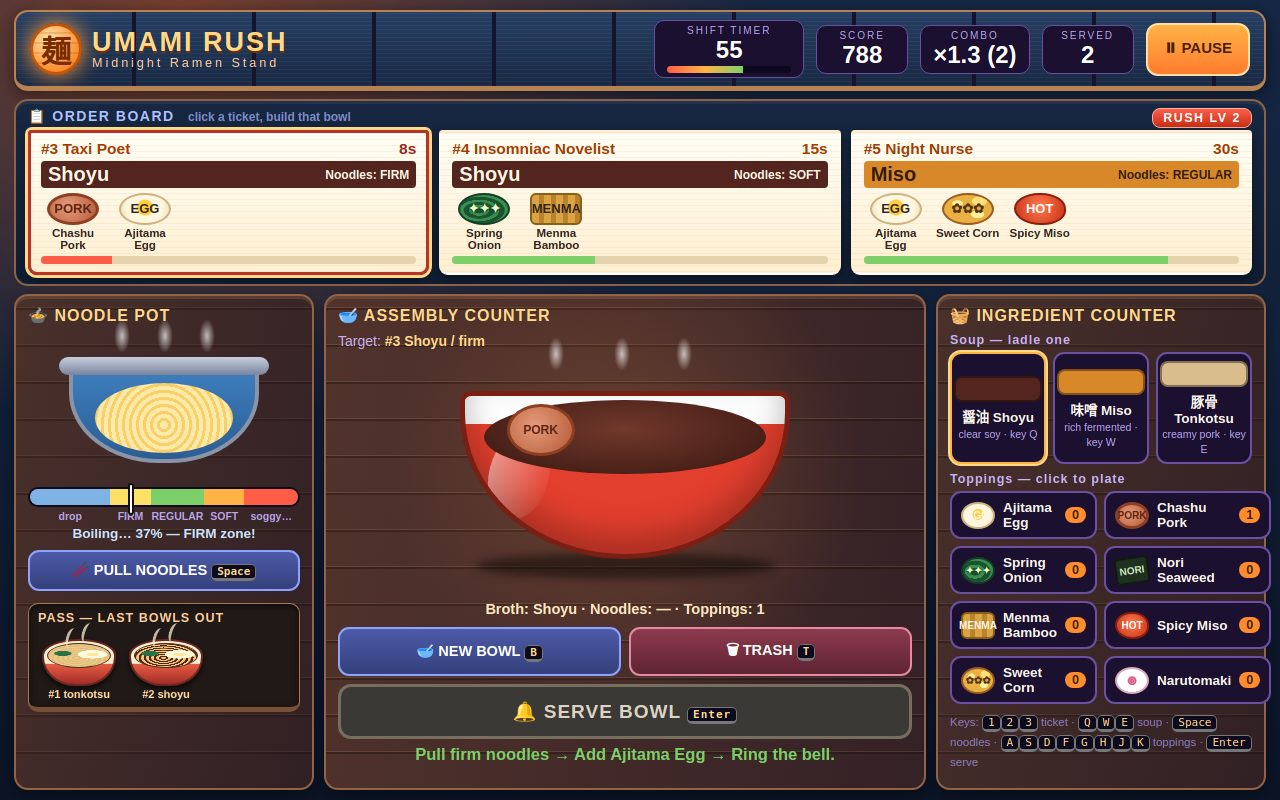
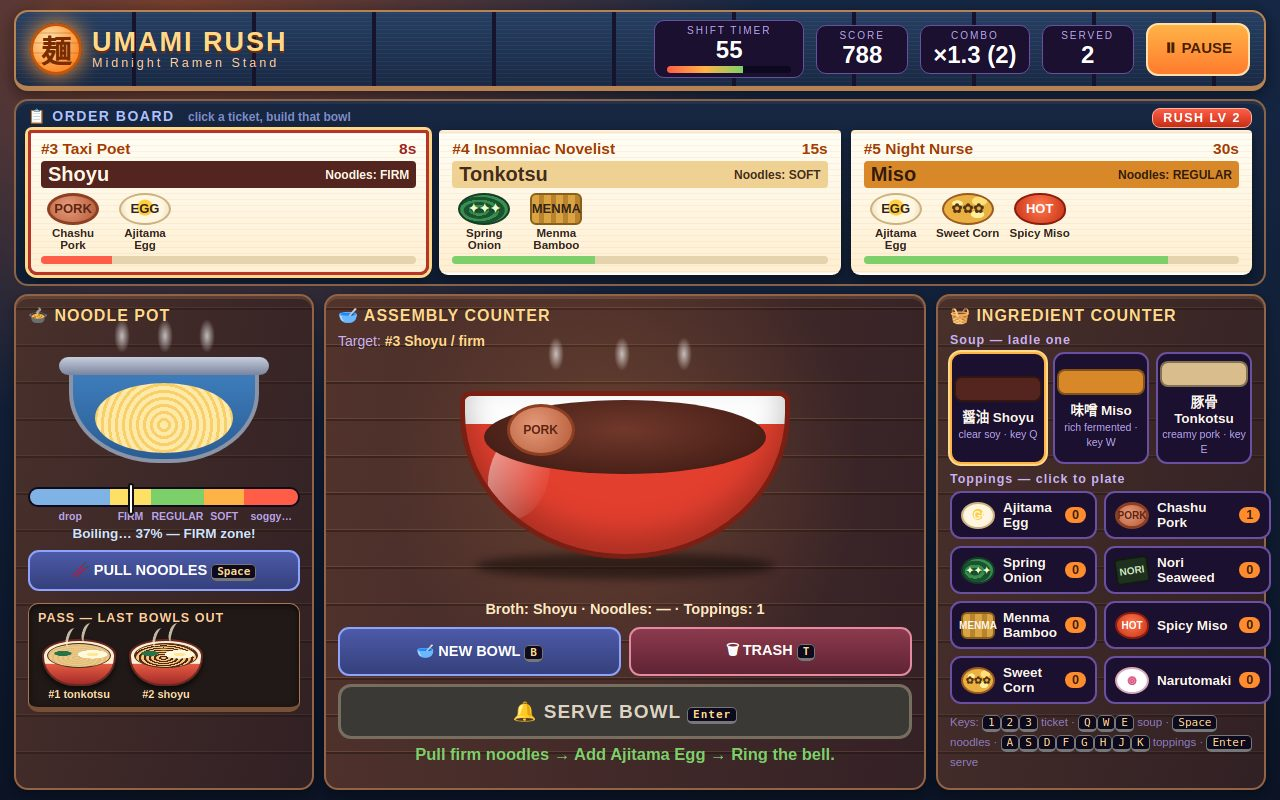
Muse cycle-2 turn: ticket #4 broth shoyu -> tonkotsu so the cover board and the serve-frame PASS shelf each show all three broths; every downstream number re-derives from the script (scores unchanged, consistency suite green)

Changed region(s): [[0.3438, 0.1875, 0.6562, 0.25]]

diff --git a/game/src/shots.js b/game/src/shots.js
@@ -13,7 +13,7 @@ const TICKETS = [
   { pinned: 0, customer: 'Night-bus Driver', broth: 'tonkotsu', doneness: 'firm', toppings: ['chashu', 'negi'], served: 3 },
   { pinned: 0, customer: 'Jazz Pianist', broth: 'shoyu', doneness: 'regular', toppings: ['menma', 'nori'], served: 11 },
   { pinned: 3, customer: 'Taxi Poet', broth: 'shoyu', doneness: 'firm', toppings: ['chashu', 'ajitama'], served: 37, missed: 'ajitama' },
-  { pinned: 11, customer: 'Insomniac Novelist', broth: 'shoyu', doneness: 'soft', toppings: ['negi', 'menma'], served: 40 },
+  { pinned: 11, customer: 'Insomniac Novelist', broth: 'tonkotsu', doneness: 'soft', toppings: ['negi', 'menma'], served: 40 },
   { pinned: 28, customer: 'Night Nurse', broth: 'miso', doneness: 'regular', toppings: ['ajitama', 'corn', 'karamiso'], served: 44 },
   { pinned: 38, customer: 'Street Photographer', broth: 'tonkotsu', doneness: 'regular', toppings: ['chashu', 'ajitama', 'nori'], served: 49 },
   { pinned: 41, customer: 'Late-shift Baker', broth: 'shoyu', doneness: 'firm', toppings: ['menma', 'negi', 'nori'], served: 54 },
